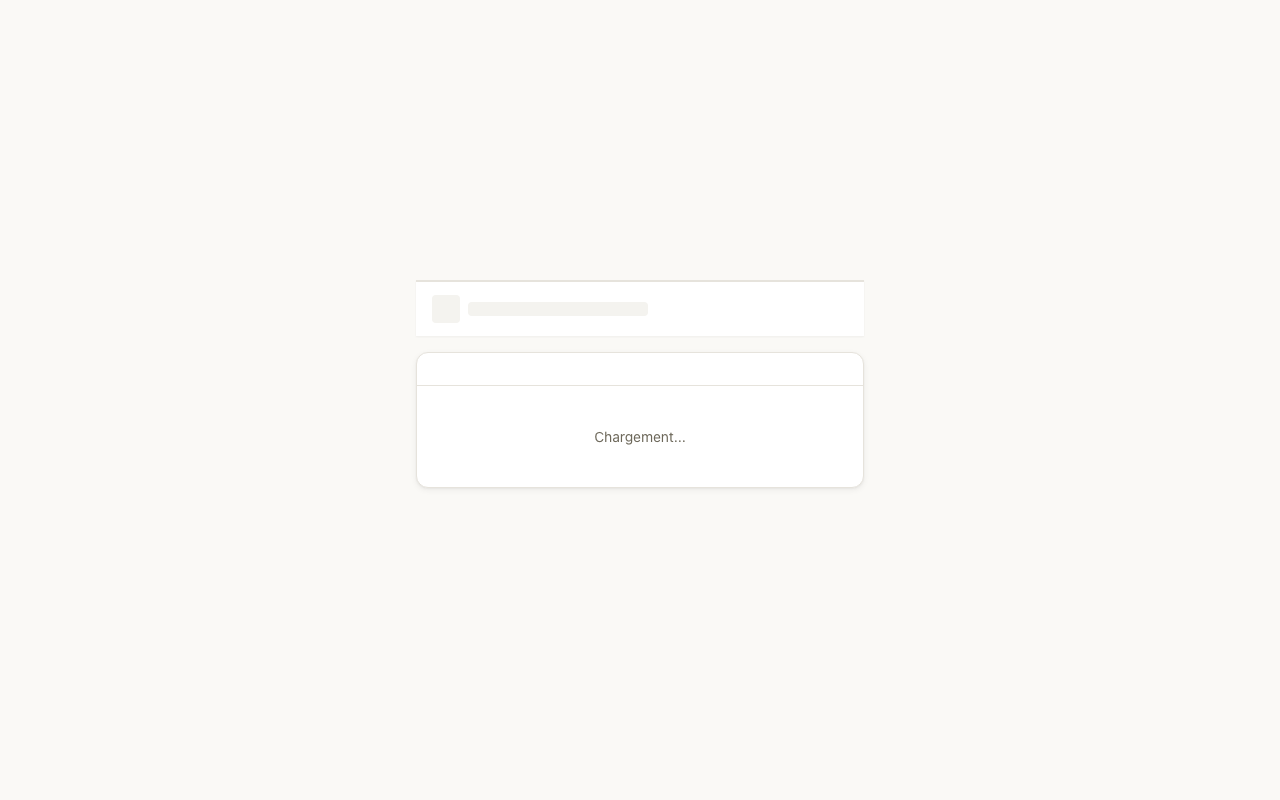
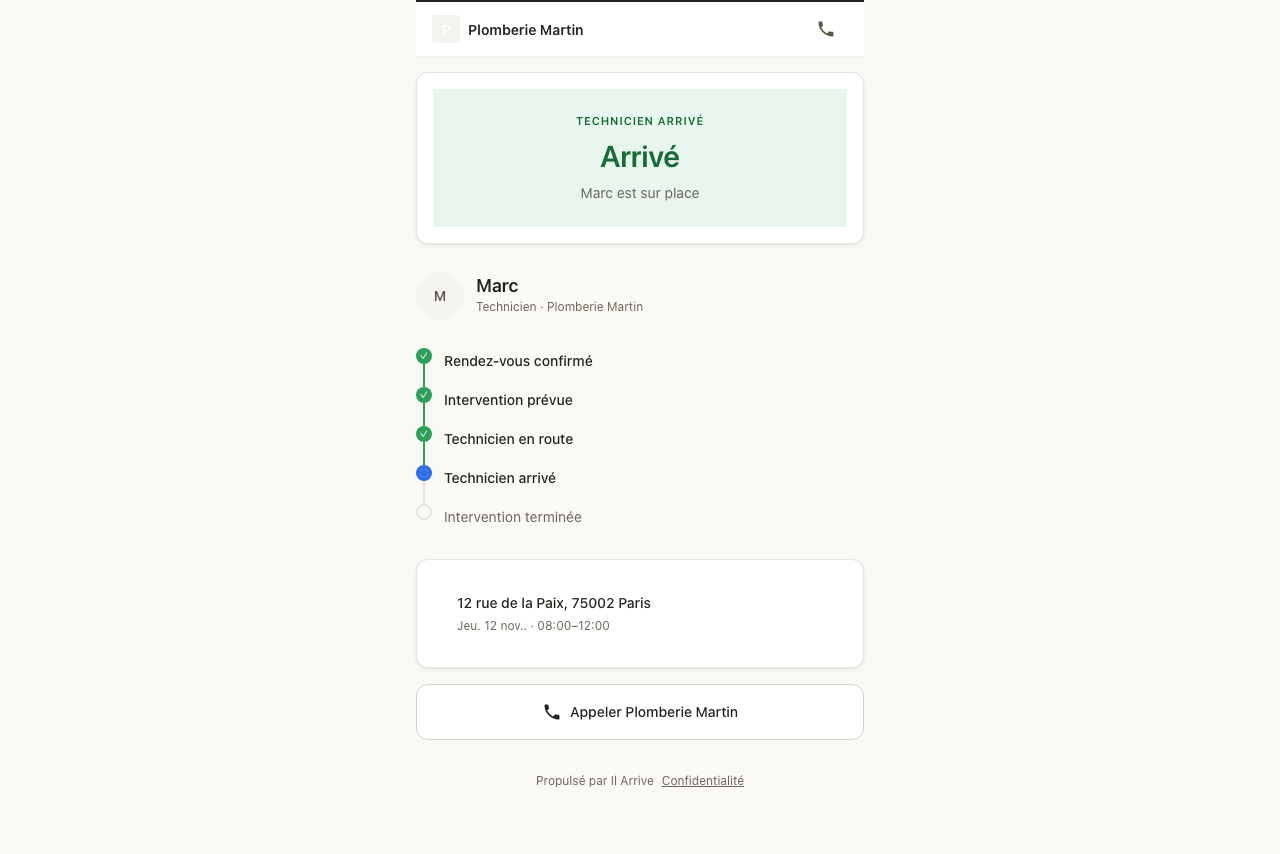
fix(track): signal-backed state so OnPush page renders after fetch; refresh 390px screenshots

diff --git a/apps/track/src/app/pages/track-page/track-page.component.ts b/apps/track/src/app/pages/track-page/track-page.component.ts
@@ -1,4 +1,4 @@
-import { Component, OnInit, OnDestroy, inject, computed, ChangeDetectionStrategy, NgZone, DestroyRef } from '@angular/core';
+import { Component, OnInit, OnDestroy, inject, computed, signal, ChangeDetectionStrategy, NgZone, DestroyRef } from '@angular/core';
 import { takeUntilDestroyed } from '@angular/core/rxjs-interop';
 import { ActivatedRoute } from '@angular/router';
 import { CommonModule } from '@angular/common';
@@ -764,11 +764,19 @@ export class TrackPageComponent implements OnInit, OnDestroy {
   private trackingApi: TrackingApi = inject(TrackingApi);
   private ngZone: NgZone = inject(NgZone);
 
-  protected state: AppState = {
+  private readonly stateSignal = signal<AppState>({
     projection: null,
     loading: true,
     error: null,
-  };
+  });
+
+  // Signal-backed so OnPush templates and computed() react to updates.
+  protected get state(): AppState {
+    return this.stateSignal();
+  }
+  protected set state(value: AppState) {
+    this.stateSignal.set(value);
+  }
 
   protected projection = computed(() => this.state.projection || {} as PublicTrackingProjection);
 
